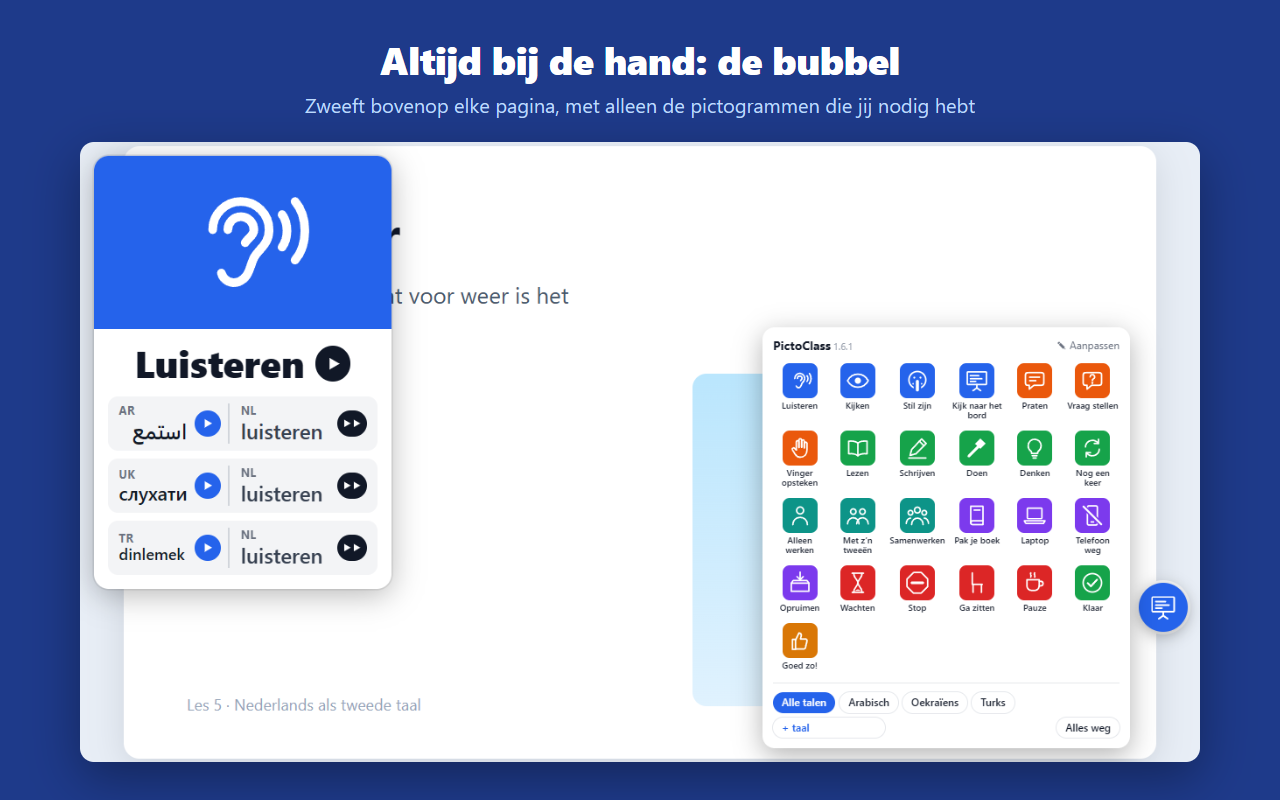
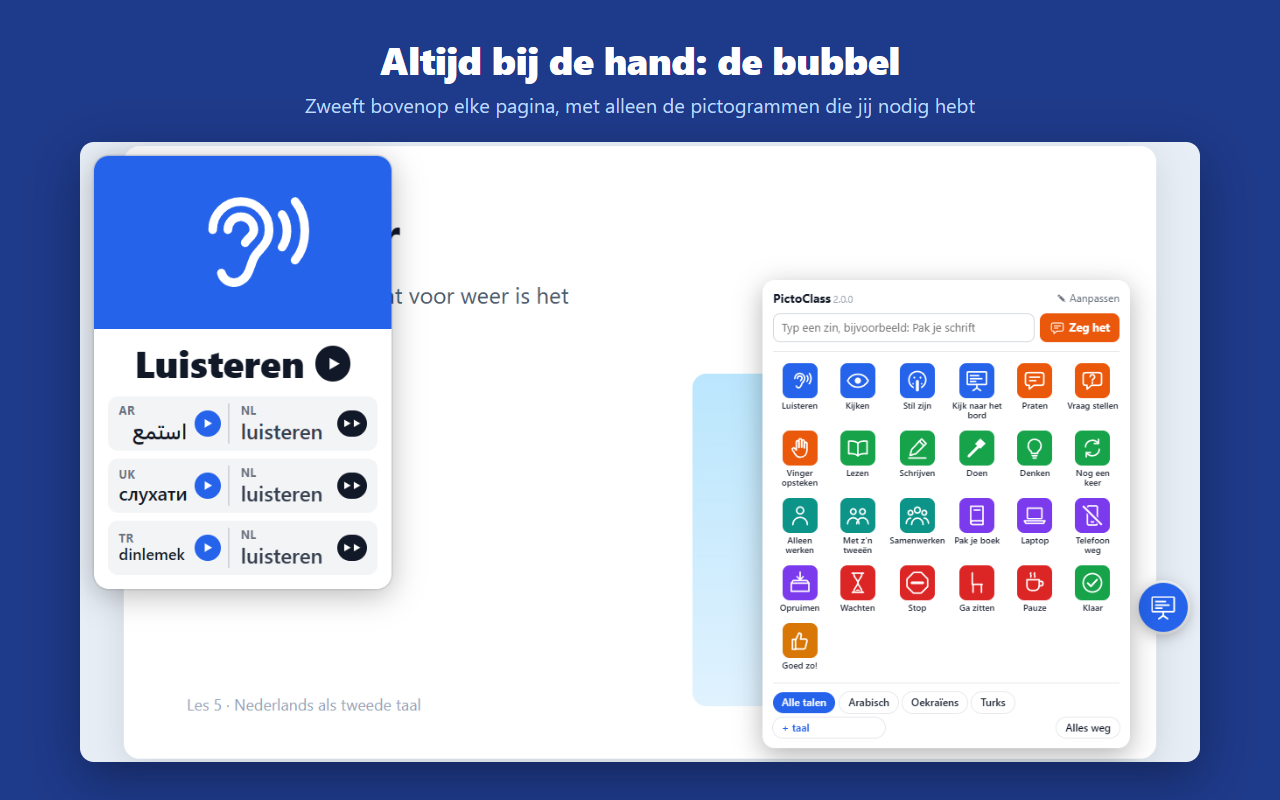
Show the bubble on every page right after install, with a welcome tab
- The bubble is now a regular content script on all http(s) pages, so it
  appears as soon as the extension is installed; tabs that are already open
  get it injected at install and after updates. The opt-in step and its
  permission window are gone.
- The first-run tab welcomes the teacher, points at the bubble (following it
  when dragged), ticks off the first steps, and points at the toolbar pin
  until PictoClass is pinned.
- Store texts, privacy policy and screenshots updated.

Changed region(s): [[0.5938, 0.3438, 0.7812, 0.4375], [0.8125, 0.3438, 0.9062, 0.4375]]

diff --git a/background.js b/background.js
@@ -53,28 +53,14 @@ async function openDock(givenTab) {
   return 'nieuw-bord';
 }
 
-// ---------- Bubble on every page (optional permission, switched on from the bubble) ----------
+// ---------- Bubble on every page ----------
+// The content script puts the bubble on every page that loads. Tabs that were already open
+// (at install or update) get it injected once, so it shows up everywhere right away.
 const ALL_SITES = ['https://*/*', 'http://*/*'];
 
-async function syncBubble() {
-  const has = await chrome.permissions.contains({ origins: ALL_SITES });
-  const regs = await chrome.scripting.getRegisteredContentScripts({ ids: ['pk-bubble'] });
-  if (has && !regs.length) {
-    await chrome.scripting.registerContentScripts([{
-      id: 'pk-bubble', matches: ALL_SITES, js: ['picto.js', 'overlay.js'], runAt: 'document_idle', persistAcrossSessions: true
-    }]);
-    // Show it right away in tabs that are already open
-    for (const tab of await chrome.tabs.query({ url: ALL_SITES })) ensureOverlay(tab.id).catch(() => {});
-  } else if (!has && regs.length) {
-    await chrome.scripting.unregisterContentScripts({ ids: ['pk-bubble'] });
-  }
-  // Let open bubbles update their switch
-  for (const tab of await chrome.tabs.query({})) chrome.tabs.sendMessage(tab.id, { type: 'pk-bubble-state', on: has }).catch(() => {});
-  return has;
+async function bubbleEverywhere() {
+  for (const tab of await chrome.tabs.query({ url: ALL_SITES })) ensureOverlay(tab.id).catch(() => {});
 }
-chrome.permissions.onAdded.addListener(() => syncBubble());
-chrome.permissions.onRemoved.addListener(() => syncBubble());
-chrome.runtime.onStartup.addListener(() => syncBubble());
 
 // ---------- Context menu ----------
 async function buildMenu() {
@@ -266,11 +252,8 @@ chrome.runtime.onMessage.addListener((msg, sender, reply) => {
     'phrase-add': () => addPhrase(msg.text),
     'phrase-remove': () => removePhrase(msg.id),
     options: () => openOptions(msg.picto, msg.lang),
-    'bubble-sync': () => syncBubble(),
-    'bubble-state': () => chrome.permissions.contains({ origins: ALL_SITES }),
-    // A permission prompt needs a user click on an extension page: open a small window for it
-    'bubble-grant': () => chrome.windows.create({ url: 'grant.html', type: 'popup', width: 460, height: 330, focused: true }),
-    'bubble-revoke': async () => { await chrome.permissions.remove({ origins: ALL_SITES }); return syncBubble(); }
+    // Is PictoClass pinned to the toolbar? (the welcome page hides its tip once it is)
+    pinned: async () => (chrome.action.getUserSettings ? (await chrome.action.getUserSettings()).isOnToolbar : null)
   }[msg.type];
   if (!run) return;
   run().then(r => reply({ ok: true, result: r }), e => reply({ ok: false, error: String(e && e.message || e) }));
@@ -305,18 +288,18 @@ async function cleanOldData() {
 
 chrome.runtime.onInstalled.addListener(async ({ reason }) => {
   buildMenu();
-  syncBubble();
   if (reason === 'update') {
     cleanOldData().catch(() => {});
-    // Old layers on open tabs stop working after an update: put a fresh bubble back where the bubble is on everywhere
-    if (await chrome.permissions.contains({ origins: ALL_SITES })) {
-      for (const tab of await chrome.tabs.query({ url: ALL_SITES })) ensureOverlay(tab.id).catch(() => {});
-    }
+    // Versions before 2.0 registered the bubble script at runtime; the manifest does that now
+    const old = await chrome.scripting.getRegisteredContentScripts({ ids: ['pk-bubble'] }).catch(() => []);
+    if (old.length) await chrome.scripting.unregisterContentScripts({ ids: ['pk-bubble'] }).catch(() => {});
   }
+  // Old layers on open tabs stop working after an update, and new installs have no bubble yet on open tabs
+  bubbleEverywhere();
   if (reason === 'install') {
     const { settings } = await chrome.storage.local.get('settings');
     if (!settings) await chrome.storage.local.set({ settings: { langs: [] } });
-    // First run: the empty board with the bubble open in edit mode
-    chrome.tabs.create({ url: BORD + '?setup=1' });
+    // First run: a welcome tab that points at the bubble and at the toolbar pin
+    chrome.tabs.create({ url: BORD + '?welkom=1' });
   }
 });

diff --git a/overlay.js b/overlay.js
@@ -94,8 +94,6 @@
     .voicerow { display: flex; flex-wrap: wrap; align-items: center; gap: 5px; margin-top: 10px; padding-top: 10px; border-top: 1px solid #E5E7EB; }
     .hintline.small { margin: 6px 0 0; font-size: 11.5px; }
     .editbottom { display: flex; justify-content: space-between; align-items: center; gap: 10px; margin-top: 10px; padding-top: 10px; border-top: 1px solid #E5E7EB; }
-    .switchrow { display: flex; align-items: center; gap: 6px; font-weight: 600; cursor: pointer; }
-    .switchrow input { width: 16px; height: 16px; margin: 0; accent-color: #2563EB; }
     .dockbtn2 { all: unset; cursor: pointer; background: #2563EB; color: #fff; font-weight: 700; font-size: 12px; padding: 4px 12px; border-radius: 999px; }
     .saywrap { margin-bottom: 10px; padding-bottom: 10px; border-bottom: 1px solid #E5E7EB; }
     .saybox { display: flex; gap: 6px; }
@@ -694,7 +692,6 @@
   // Panel content. Normal mode: the chosen pictograms plus language chips.
   // Edit mode (✎ Aanpassen): every pictogram with an on/off mark, manage languages, bubble on every site.
   let editing = false;
-  let allSites = null; // is the bubble registered on every site? (asked from the service worker)
 
   function el(tag, cls, text) {
     const e = document.createElement(tag);
@@ -717,7 +714,6 @@
   function setEditing(on) {
     editing = on;
     if (on) {
-      chrome.runtime.sendMessage({ type: 'bubble-state' }).then(r => { allSites = !!(r && r.result); if (editing) fillDock(); }).catch(() => {});
       askCoverage();
     }
     fillDock();
@@ -786,7 +782,7 @@
       acts.append(done);
     } else {
       const edit = el('button', 'dockx', '✎ Aanpassen');
-      edit.title = 'Kies je pictogrammen, talen en of de bubbel op elke website staat';
+      edit.title = 'Kies je pictogrammen, talen en stem';
       edit.addEventListener('click', () => setEditing(true));
       // No "hide" option on purpose: without the bubble a teacher could get stuck on the page
       acts.append(edit);
@@ -844,17 +840,6 @@
       }
       foot.appendChild(add);
 
-      const row = el('label', 'switchrow');
-      const cb = el('input');
-      cb.type = 'checkbox';
-      cb.checked = !!allSites;
-      cb.disabled = allSites === null;
-      row.append(cb, el('span', null, 'Bubbel op elke website'));
-      cb.addEventListener('change', () => {
-        // Asking for the all-sites permission needs an extension page; the service worker opens a small window for it
-        chrome.runtime.sendMessage({ type: cb.checked ? 'bubble-grant' : 'bubble-revoke' }).catch(() => {});
-        if (!cb.checked) allSites = false;
-      });
       // Voice: default / female / male. Tell honestly which languages have no voice of that kind here.
       const vrow = el('div', 'voicerow');
       vrow.appendChild(el('span', 'flabel inline', 'Stem'));
@@ -874,7 +859,7 @@
       const more = el('button', 'dockx', 'Woorden verbeteren →');
       more.addEventListener('click', () => chrome.runtime.sendMessage({ type: 'options' }).catch(() => {}));
       const bottom = el('div', 'editbottom');
-      bottom.append(row, more);
+      bottom.append(more);
       bpanel.append(bottom);
     } else {
       if (langs.length) {
@@ -926,7 +911,6 @@
     else if (msg.type === 'pk-show') { show(msg.picto); reply({ ok: true }); }
     else if (msg.type === 'pk-clear') { clear(); reply({ ok: true }); }
     else if (msg.type === 'pk-dock') { dock(true, !!msg.edit); reply({ ok: true }); }
-    else if (msg.type === 'pk-bubble-state') { allSites = !!msg.on; if (editing) fillDock(); }
   });
 
   // When this copy is cut off from the extension (update/reload), take its cards and bubble off the page
@@ -936,5 +920,10 @@
     if (!alive) { clearInterval(orphanCheck); host.remove(); }
   }, 2000);
 
-  globalThis.PKOverlay = { show, remove, clear, dock, open: () => [...cards.keys()] };
+  globalThis.PKOverlay = {
+    show, remove, clear, dock, open: () => [...cards.keys()],
+    // for the welcome page
+    bubbleRect: () => bubble ? bubble.getBoundingClientRect() : null,
+    panelOpen: () => !!(bpanel && bpanel.classList.contains('open'))
+  };
 })();

diff --git a/bord.html b/bord.html
@@ -2,16 +2,58 @@
 <html lang="nl">
 <head>
 <meta charset="utf-8">
-<title>PictoClass – bord</title>
+<title>PictoClass</title>
 <link rel="stylesheet" href="ui.css">
 <style>
   html, body { height: 100%; }
   body { background: #fff; overflow: hidden; }
   .hint { position: fixed; inset: 0; display: flex; align-items: center; justify-content: center; color: #D1D5DB; font-size: 22px; pointer-events: none; text-align: center; padding: 20px; }
+
+  /* Welcome (first run) */
+  .welcome { position: fixed; inset: 0; display: none; align-items: center; justify-content: center; pointer-events: none; padding: 24px; }
+  body.welkom .welcome { display: flex; }
+  body.welkom .hint { display: none; }
+  .hero { max-width: 560px; text-align: left; }
+  .hero img { width: 72px; height: 72px; }
+  .hero h1 { font-size: 38px; margin: 12px 0 6px; }
+  .hero p { font-size: 18px; color: var(--muted); margin: 0 0 22px; }
+  .steps { list-style: none; margin: 0; padding: 0; display: flex; flex-direction: column; gap: 12px; }
+  .steps li { display: flex; gap: 14px; align-items: flex-start; font-size: 18px; }
+  .steps b.n { flex: none; width: 32px; height: 32px; border-radius: 50%; background: var(--accent); color: #fff; display: flex; align-items: center; justify-content: center; font-size: 16px; }
+  .steps li.done { color: var(--muted); }
+  .steps li.done b.n { background: #16A34A; }
+
+  .coach { position: fixed; display: none; max-width: 300px; background: #111827; color: #fff; border-radius: 14px; padding: 14px 16px; font-size: 16px; line-height: 1.35;
+    box-shadow: 0 10px 30px rgba(0,0,0,.25); pointer-events: none; z-index: 5; }
+  .coach b { color: #FDE68A; }
+  .coach::after { content: ''; position: absolute; width: 0; height: 0; border: 12px solid transparent; }
+  .coach.right::after { right: -22px; top: calc(50% - 12px); border-left-color: #111827; }
+  .coach.left::after { left: -22px; top: calc(50% - 12px); border-right-color: #111827; }
+  .coach.up::after { top: -22px; right: 26px; border-bottom-color: #111827; }
+  .coach.pulse { animation: nudge 1.6s ease-in-out infinite; }
+  @keyframes nudge { 50% { transform: translateX(-6px); } }
+  body.welkom .coach.on { display: block; }
 </style>
 </head>
 <body>
 <div class="hint" id="hint">Klik op de blauwe bubbel om een pictogram te kiezen · F11 = volledig scherm</div>
+
+<div class="welcome" id="welcome">
+  <div class="hero">
+    <img src="icons/icon128.png" alt="">
+    <h1>Welkom bij PictoClass</h1>
+    <p>De blauwe bubbel staat vanaf nu op elke website die je opent. Daar begin je.</p>
+    <ol class="steps">
+      <li id="s1"><b class="n">1</b><span>Klik op de <b>blauwe bubbel</b>.</span></li>
+      <li id="s2"><b class="n">2</b><span>Kies een pictogram, of typ een korte zin.</span></li>
+      <li id="s3"><b class="n">3</b><span>Kies op de kaart de <b>taal van je leerling</b>. Het woord en de uitspraak komen er vanzelf bij.</span></li>
+    </ol>
+  </div>
+</div>
+
+<div class="coach right pulse" id="coachBubble">Dit is je <b>PictoClass-bubbel</b>. Klik erop om te beginnen. Je kunt hem ook verslepen.</div>
+<div class="coach up" id="coachPin">Zet PictoClass vast: klik rechtsboven op het <b>puzzelstukje</b> en dan op de <b>punaise</b> naast PictoClass.</div>
+
 <script src="picto.js"></script>
 <script src="overlay.js"></script>
 <script src="bord.js"></script>

diff --git a/bord.js b/bord.js
@@ -1,6 +1,9 @@
 // Empty board: for when no web page is open (or on pages where Chrome doesn't allow extensions).
 // Picking works through the bubble, just like on any other page.
+// With ?welkom=1 (first install) it doubles as the welcome page: it points at the bubble and the toolbar pin.
 const hint = document.getElementById('hint');
+const params = new URLSearchParams(location.search);
+const welcome = params.has('welkom');
 let myTab = null;
 chrome.tabs.getCurrent(t => { myTab = t && t.id; });
 
@@ -16,7 +19,49 @@ chrome.runtime.onMessage.addListener((msg, sender, reply) => {
   if (msg.type === 'bord-ping') { PKOverlay.dock(true); reply({ ok: true }); }
 });
 
-const first = new URLSearchParams(location.search).get('show');
+const first = params.get('show');
 if (first) show(first);
-else setTimeout(() => PKOverlay.dock(true, new URLSearchParams(location.search).has('setup')), 300); // panel open right away; first run starts in edit mode
+else if (!welcome) setTimeout(() => PKOverlay.dock(true), 300); // panel open right away on an empty board
 document.addEventListener('click', () => setTimeout(() => { if (PKOverlay.open().length) hint.style.display = 'none'; }), true);
+
+// ---------- Welcome ----------
+if (welcome) {
+  document.body.classList.add('welkom');
+  const coach = document.getElementById('coachBubble');
+  const pin = document.getElementById('coachPin');
+  const step = n => document.getElementById('s' + n);
+  let pinned = false;
+
+  // Keep the pointer next to the bubble (it can be dragged), and follow the teacher's progress
+  const tick = () => {
+    const r = PKOverlay.bubbleRect && PKOverlay.bubbleRect();
+    const open = PKOverlay.panelOpen && PKOverlay.panelOpen();
+    const cards = PKOverlay.open().length;
+    if (open) step(1).classList.add('done');
+    if (cards) { step(1).classList.add('done'); step(2).classList.add('done'); }
+    if (r && !open) {
+      coach.classList.add('on');
+      const w = coach.offsetWidth, h = coach.offsetHeight;
+      const leftSide = r.left + r.width / 2 > innerWidth / 2;
+      coach.classList.toggle('right', leftSide);
+      coach.classList.toggle('left', !leftSide);
+      coach.style.left = (leftSide ? r.left - w - 24 : r.right + 24) + 'px';
+      coach.style.top = Math.max(12, r.top + r.height / 2 - h / 2) + 'px';
+      coach.innerHTML = step(1).classList.contains('done')
+        ? 'Klik op de <b>bubbel</b> als je weer een pictogram of zin nodig hebt. Met <b>✎ Aanpassen</b> kies je je pictogrammen, talen en stem.'
+        : 'Dit is je <b>PictoClass-bubbel</b>. Klik erop om te beginnen. Je kunt hem ook verslepen.';
+      coach.classList.toggle('pulse', !step(1).classList.contains('done'));
+    } else {
+      coach.classList.remove('on');
+    }
+    pin.classList.toggle('on', !pinned);
+    pin.style.right = '18px';
+    pin.style.top = '14px';
+  };
+  setInterval(tick, 250);
+
+  // Hide the pin tip once PictoClass is on the toolbar (Chrome can't pin an extension by itself)
+  const checkPin = () => chrome.runtime.sendMessage({ type: 'pinned' }).then(r => { pinned = r && r.result === true; }).catch(() => {});
+  checkPin();
+  setInterval(checkPin, 2000);
+}

diff --git a/options.html b/options.html
@@ -61,7 +61,7 @@
     <div class="ways">
       <div class="way"><b>1. Vastpinnen</b><span>Klik in Chrome rechtsboven op het <b>puzzelstukje</b> en dan op de <b>punaise</b> naast PictoClass. Het icoon staat daarna altijd in de werkbalk.</span></div>
       <div class="way"><b>2. Rechtermuisknop</b><span>Klik met rechts op een willekeurige pagina &rarr; <b>PictoClass</b> &rarr; kies meteen een pictogram.</span></div>
-      <div class="way"><b>3. De bubbel</b><span>Een <b>blauwe bubbel</b> zweeft bovenop de pagina. Klik erop voor je pictogrammen; met <b>✎ Aanpassen</b> kies je welke pictogrammen en talen, en of de bubbel op elke website staat.</span></div>
+      <div class="way"><b>3. De bubbel</b><span>De <b>blauwe bubbel</b> staat op elke website. Klik erop voor je pictogrammen of om een zin te typen; met <b>✎ Aanpassen</b> kies je pictogrammen, talen en stem. Je kunt hem verslepen.</span></div>
       <div class="way"><b>4. Sneltoetsen</b><span><b>Alt+Shift+P</b> menu · <b>Alt+Shift+O</b> bubbel · <b>Alt+Shift+X</b> alles weg</span></div>
     </div>
   </section>

diff --git a/privacy.html b/privacy.html
@@ -38,10 +38,7 @@
   <p>Er gaan geen gegevens over jou, je leerlingen of de pagina's die je bezoekt naar deze diensten. Voor hun eigen verwerking gelden de privacyregels van Google en MyMemory.</p>
 
   <h2>Rechten van de extensie</h2>
-  <p>PictoClass leest geen webpagina's. De extensie plaatst alleen een laag met pictogrammen op het tabblad waar jij een pictogram kiest. Zet je "Bubbel op elke pagina" aan, dan vraagt Chrome toestemming voor alle websites; PictoClass gebruikt die alleen om de bubbel te tonen en leest of bewaart niets van die pagina's.</p>
-
-  <h2>Contact</h2>
-  <p>Vragen? Neem contact op via de contactgegevens bij PictoClass in de Chrome Web Store.</p>
+  <p>PictoClass leest geen webpagina's. De extensie plaatst alleen een laag met pictogrammen op het tabblad waar jij een pictogram kiest. De bubbel staat op elke website; Chrome vraagt daarvoor bij de installatie toestemming. PictoClass gebruikt die alleen om de bubbel te tonen en leest of bewaart niets van die pagina's.</p>
 </main>
 </body>
 </html>

diff --git a/README.md b/README.md
@@ -14,7 +14,7 @@ The user interface is in Dutch, because the extension is made for Dutch classroo
 - Type a short sentence in the bubble: it becomes a card with the Dutch sentence and its translation, spoken in the home language and in Dutch.
 - Choose a female or male voice; used for every language the computer has such a voice for.
 - No preparation: pick the student's language on a card and PictoClass looks up the translation and a pronunciation by itself.
-- A floating **bubble** on top of the page to pick pictograms. **✎ Aanpassen** (edit) in the bubble chooses which pictograms and languages are used and whether the bubble shows on every site.
+- A floating **bubble** on every web page, right after install, to pick pictograms. **✎ Aanpassen** (edit) in the bubble chooses which pictograms, languages and voice are used.
 - Also reachable from the toolbar icon, the context menu and keyboard shortcuts (Alt+Shift+P, Alt+Shift+O, Alt+Shift+X).
 - 27 languages, including Arabic, Tigrinya, Ukrainian, Turkish, Polish, Persian, Pashto and Somali.
 - Export/import of the word set (JSON) to share with colleagues. No account; everything stays in the browser.
@@ -34,7 +34,7 @@ the grey play button on a card links straight there. Note that the Google endpoi
 
 1. Open `chrome://extensions` and switch on **Developer mode**.
 2. Click **Load unpacked** and choose this folder.
-3. On first install the empty board opens with the bubble in edit mode.
+3. On first install a welcome tab points at the bubble (now on every page) and at the toolbar pin.
 
 ## Files
 
@@ -47,7 +47,7 @@ the grey play button on a card links straight there. Note that the Google endpoi
 | `auto.js` | Automatic translation and pronunciation lookup (also for typed sentences) |
 | `voices.js` | Tells male and female system voices apart by their names |
 | `offscreen.*` | Plays audio for the service worker |
-| `popup.*`, `options.*`, `bord.*`, `grant.*` | Toolbar popup, word editor, empty board, permission window |
+| `popup.*`, `options.*`, `bord.*` | Toolbar popup, word editor, empty board (also the welcome page after install) |
 | `store/` | Chrome Web Store images and the pages used to render them |
 | `privacy.html` | Privacy policy (Dutch), published with GitHub Pages |
 
